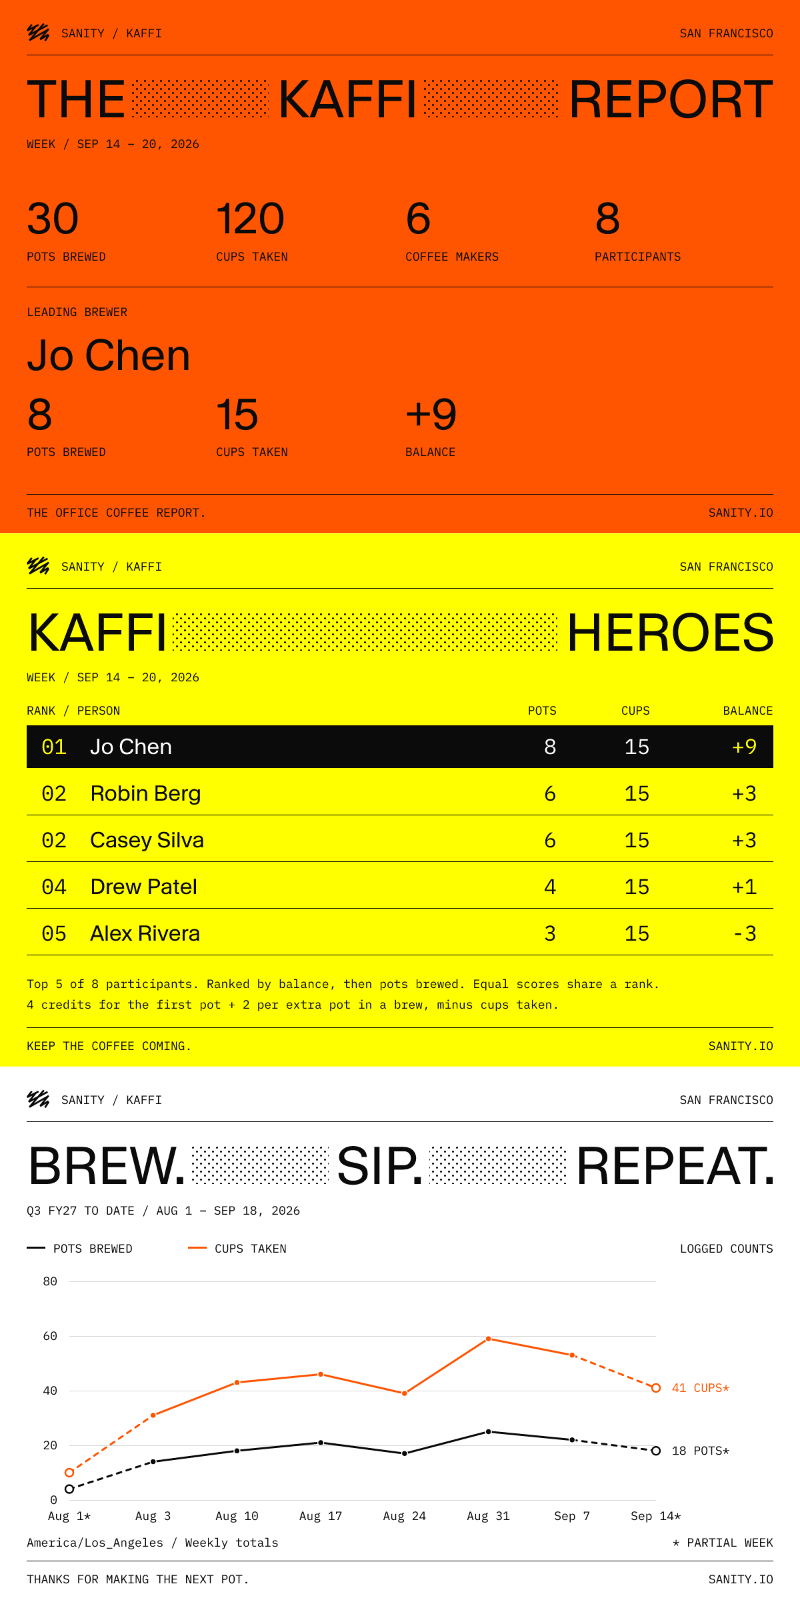
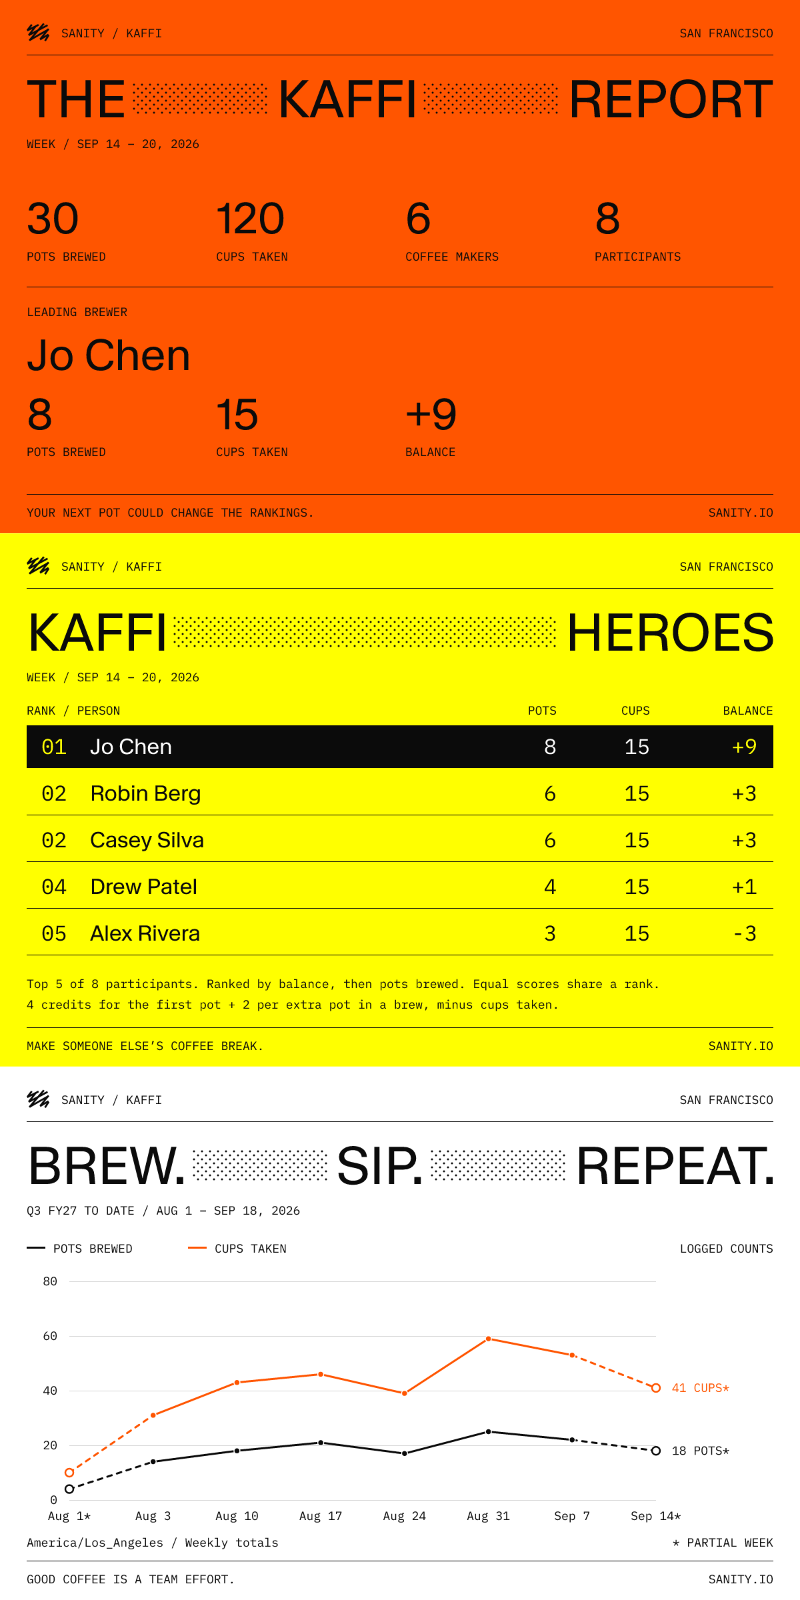
fix: render headline textures in complete tiles

diff --git a/apps/kaffi/reports/coffee-images.ts b/apps/kaffi/reports/coffee-images.ts
@@ -14,6 +14,7 @@ const WHITE = "#ffffff";
 const FONT = "KMR Waldenburg";
 const MONO = "IBM Plex Mono";
 const TYPE = { headline: 78, value: 64, body: 32, label: 18 };
+const DOT_TILE = 12;
 const font = {
   loadSystemFonts: false,
   fontFiles: ["waldenburg-normal.ttf", "ibm-plex-mono-regular.ttf"].map(
@@ -120,14 +121,18 @@ function headline(title: string) {
   const widths = words.map((word) => textWidth(word, TYPE.headline, FONT));
   const gap =
     (1120 - widths.reduce((sum, width) => sum + width, 0)) / (words.length - 1);
+  const textureWidth = Math.max(
+    0,
+    Math.floor((gap - 24) / DOT_TILE) * DOT_TILE,
+  );
   let x = 40;
   return words
     .map((word, i) => {
       const label = text(word, x, 176, TYPE.headline);
       x += widths[i];
       const spacer =
-        i < words.length - 1
-          ? rect(x + 12, 120, gap - 24, 56, "url(#dots)")
+        i < words.length - 1 && textureWidth > 0
+          ? `<g transform="translate(${x + (gap - textureWidth) / 2} 124)">${rect(0, 0, textureWidth, DOT_TILE * 4, "url(#dots)")}</g>`
           : "";
       x += gap;
       return label + spacer;
@@ -144,7 +149,7 @@ function frame(
   // Hex-dot geometry and symbol match www-sanity-io's engineering OG assets.
   const svg = `<svg xmlns="http://www.w3.org/2000/svg" width="${WIDTH}" height="${HEIGHT}" viewBox="0 0 ${WIDTH} ${HEIGHT}">
     <title>${escapeXml(`${title}: ${report.office}, ${report.dateLabel}`)}</title>
-    <defs><pattern id="dots" width="12" height="12" patternUnits="userSpaceOnUse"><circle cx="1.5" cy="1.5" r="1.5" fill="${INK}"/><circle cx="7.5" cy="7.5" r="1.5" fill="${INK}"/></pattern></defs>
+    <defs><pattern id="dots" width="${DOT_TILE}" height="${DOT_TILE}" patternUnits="userSpaceOnUse"><circle cx="3" cy="3" r="1.5" fill="${INK}"/><circle cx="9" cy="9" r="1.5" fill="${INK}"/></pattern></defs>
     ${rect(0, 0, WIDTH, HEIGHT, background)}
     <g transform="translate(40 31) scale(2.3)">${symbol}</g>
     ${text("SANITY / KAFFI", 92, 56, TYPE.label, { mono: true })}
